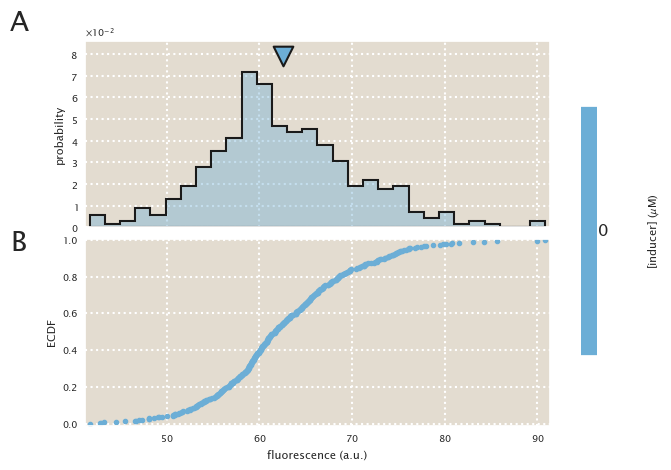
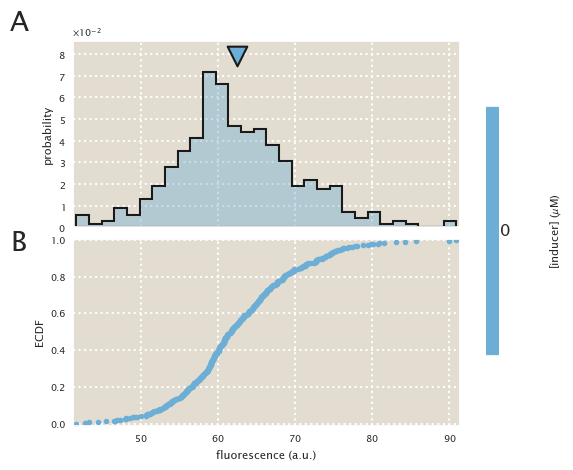
fix figure size

diff --git a/src/image_analysis/20161203_O2_RBS1027_IPTG_titration_microscopy/analysis.py b/src/image_analysis/20161203_O2_RBS1027_IPTG_titration_microscopy/analysis.py
@@ -49,7 +49,7 @@ df_im = pd.read_csv('./outdir/' + str(DATE) + '_' + OPERATOR + '_' +
 df_group = df_im.groupby('rbs')
 
 # Plot area and eccentricity ECDF
-fig, ax = plt.subplots(1, 2, figsize=(8, 4))
+fig, ax = plt.subplots(1, 2, figsize=(7, 3))
 for group, data in df_group:
     area_ecdf = im_utils.ecdf(df_im.area.sample(frac=0.3))
     ecc_ecdf = im_utils.ecdf(df_im.eccentricity.sample(frac=0.3))
@@ -176,7 +176,7 @@ for strain in STRAINS:
     colors = sns.color_palette("Blues_r", n_colors=len(concentrations))
 
     # Initialize figure
-    fig, ax = plt.subplots(2, 1, figsize=(6, 5), sharex=True)
+    fig, ax = plt.subplots(2, 1, figsize=(5, 5), sharex=True)
 
     # Set the nice scientific notation for the y axis of the histograms
     ax[0].yaxis.set_major_formatter(mpl.ticker.ScalarFormatter(
@@ -260,5 +260,8 @@ for strain in STRAINS:
     plt.figtext(0.0, .9, 'A', fontsize=20)
     plt.figtext(0.0, .46, 'B', fontsize=20)
 
+    # Change strain name to have same name for all strains
+    if strain == STRAIN:
+        strain = 'exp'
     plt.subplots_adjust(hspace=0.06)
     plt.savefig('./outdir/' + strain + '_fluor_ecdf.png', bbox_inches='tight')

diff --git a/src/image_analysis/20161203_O2_RBS1027_IPTG_titration_microscopy/README.md b/src/image_analysis/20161203_O2_RBS1027_IPTG_titration_microscopy/README.md
@@ -47,20 +47,20 @@ The pads looked great. Overall the experiment ran without any problem.
 
 ** Example segmentation **
 
-![](outdir/example_segmentation.png =100x100)
+![](outdir/example_segmentation.png)
 
 ** ECDF (auto) **
 
-![](outdir/auto_fluor_ecdf.png =100x100)
+![](outdir/auto_fluor_ecdf.png)
 
 ** ECDF (∆lacI) **
 
-![](outdir/delta_fluor_ecdf.png =100x100)
+![](outdir/delta_fluor_ecdf.png)
 
 ** ECDF (RBS1027) **
 
-![](outdir/RBS1027_fluor_ecdf.png =100x100)
+![](outdir/RBS1027_fluor_ecdf.png)
 
 ** fold-change **
 
-![](outdir/fold_change.png =100x100)
+![](outdir/fold_change.png)
